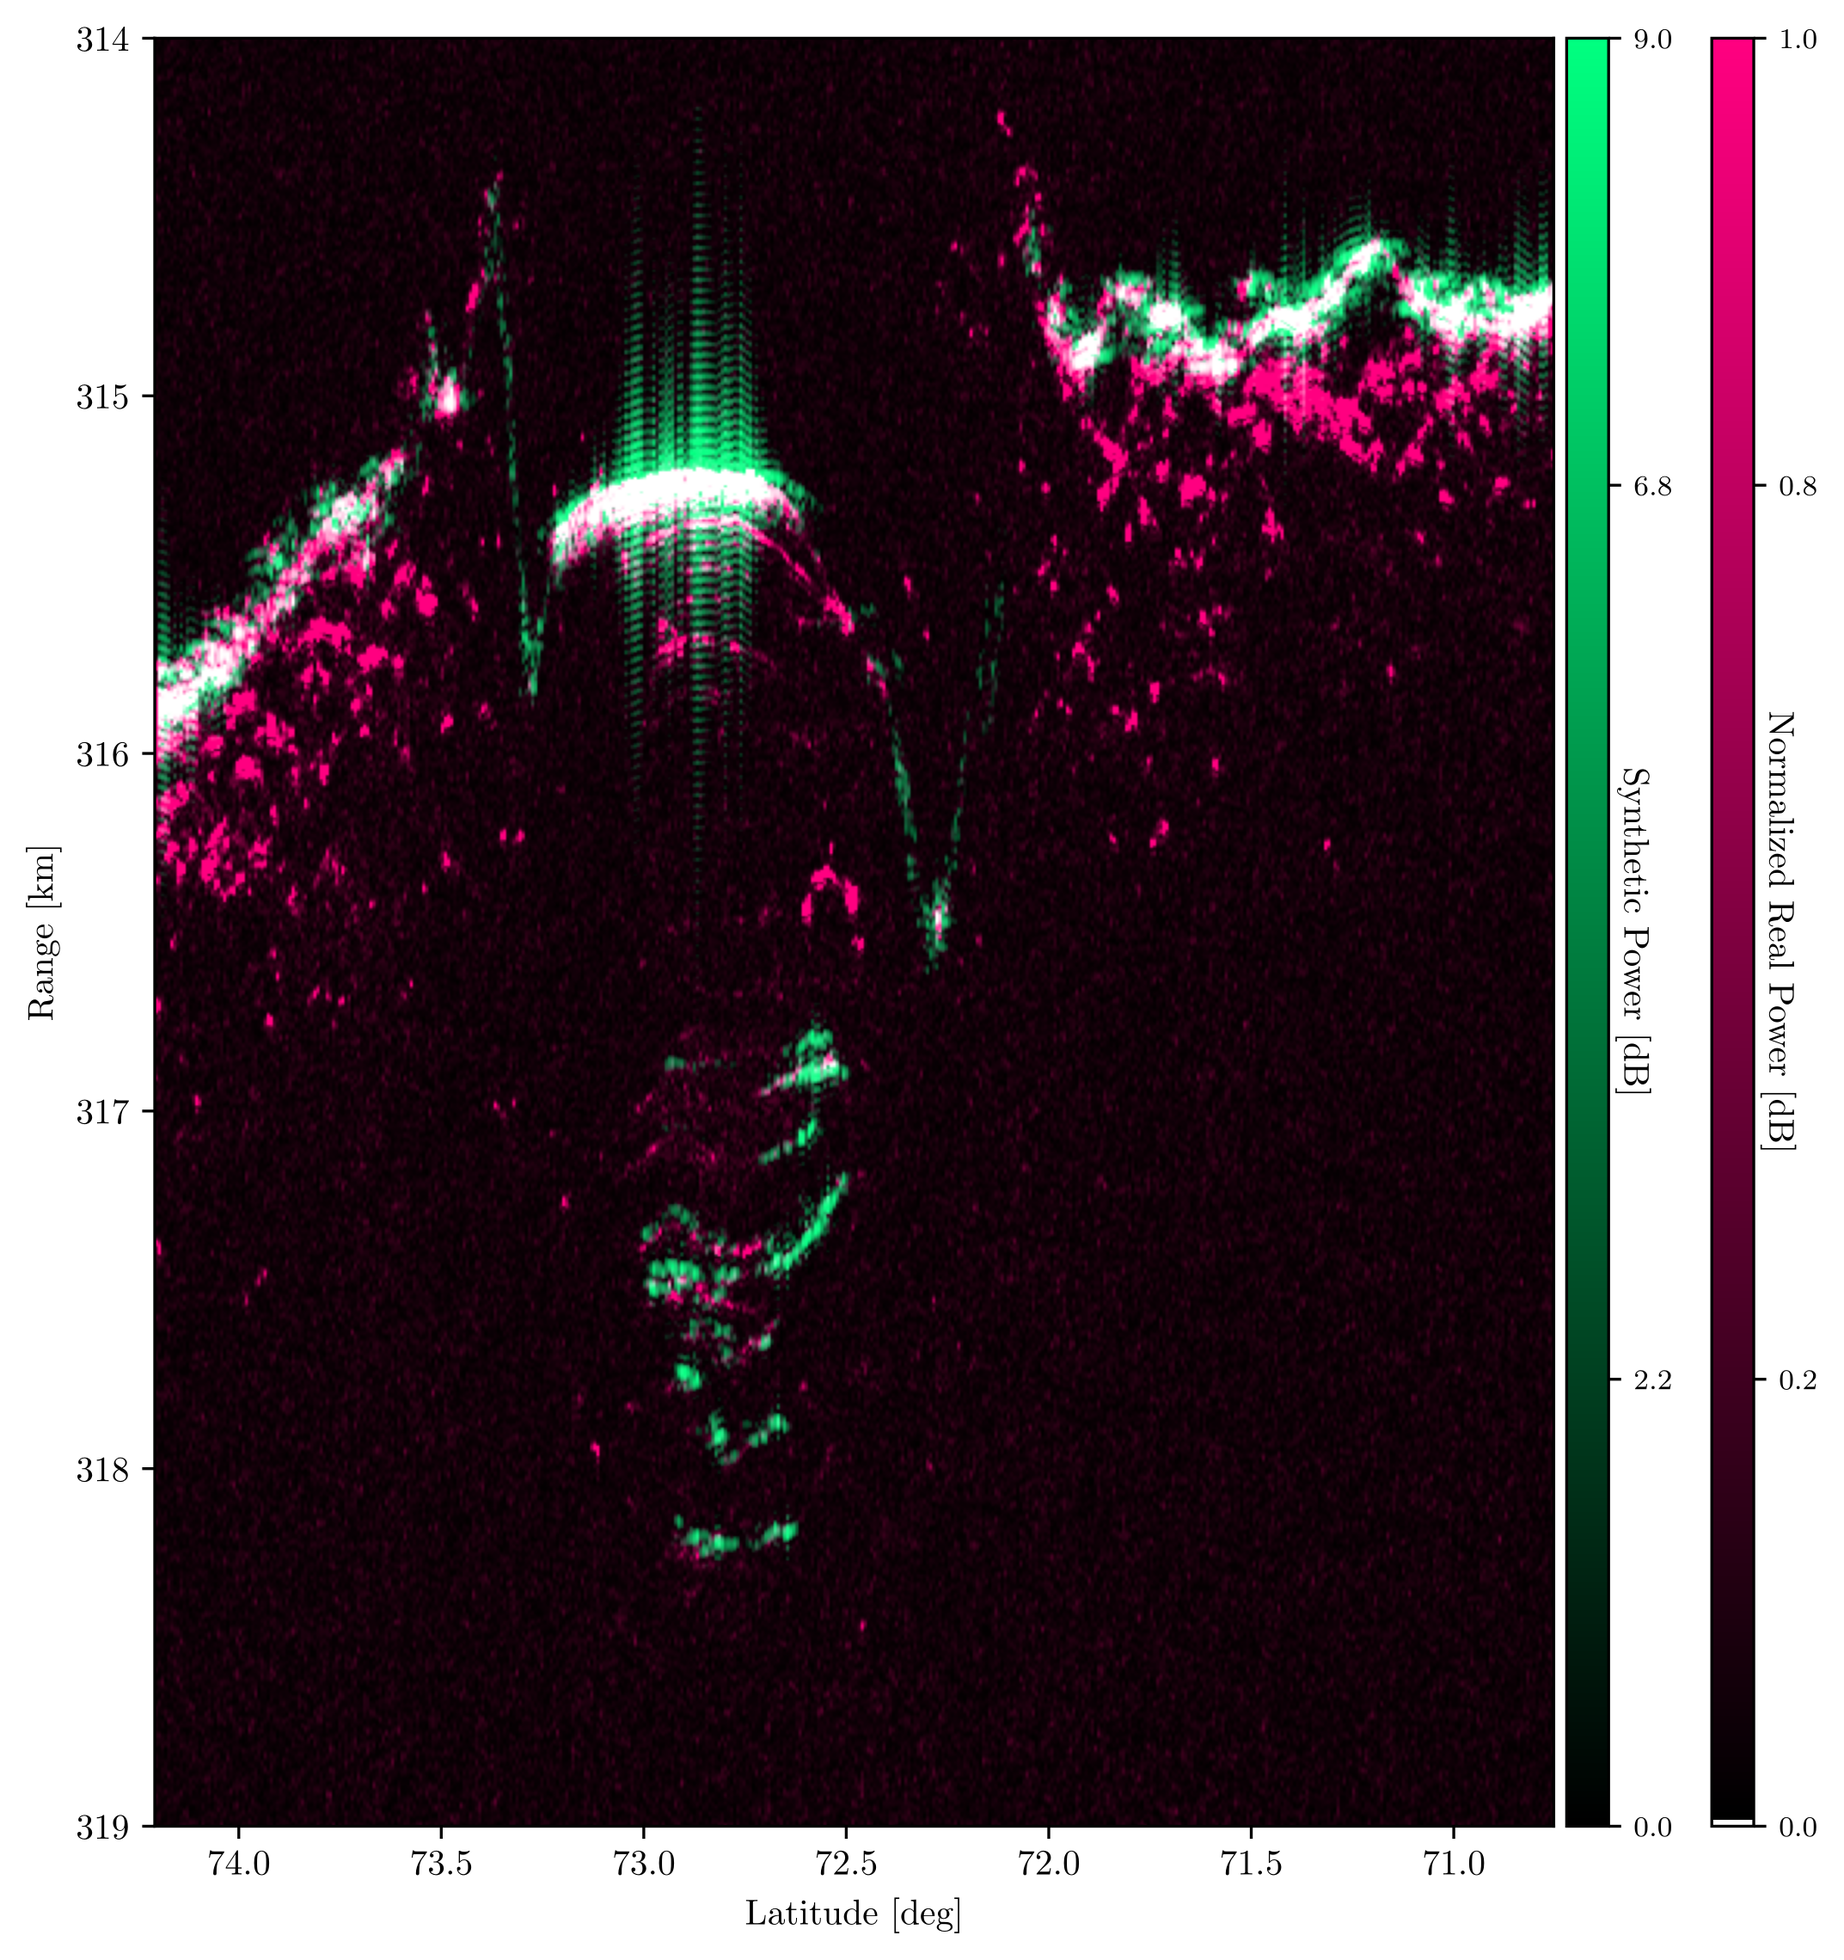
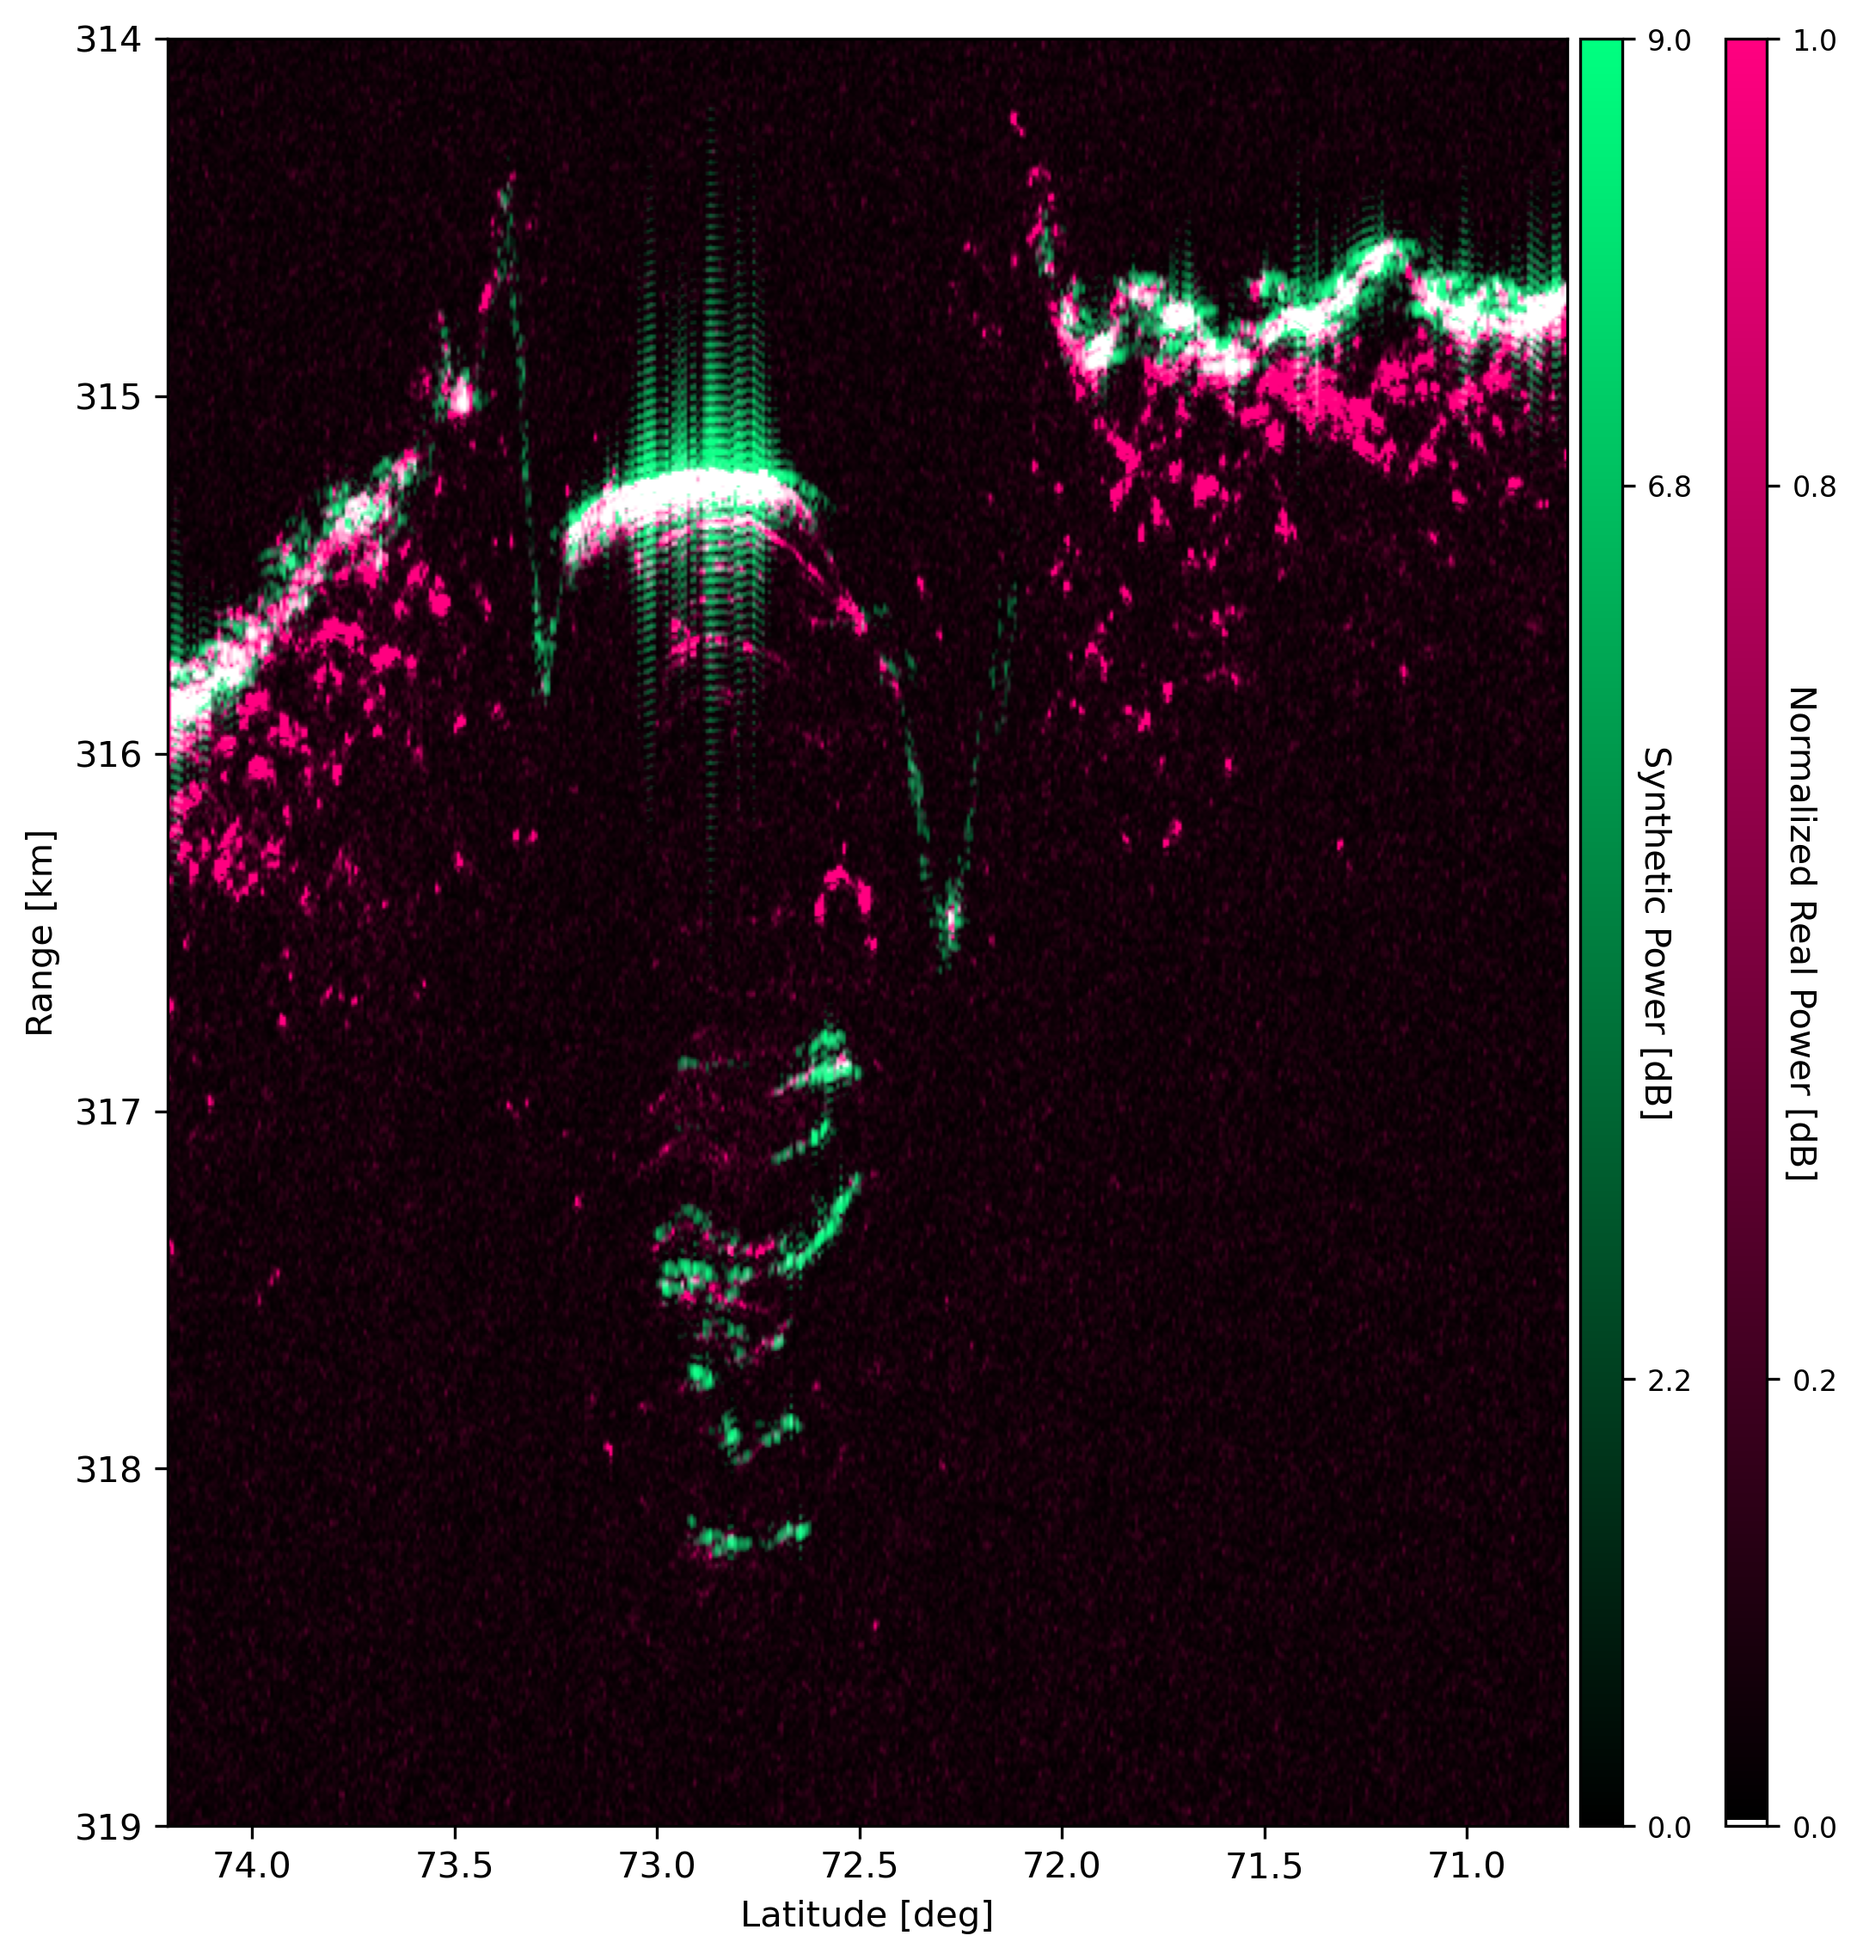
korolev focusing gain

diff --git a/src/PYTHON/rdr_plots.py b/src/PYTHON/rdr_plots.py
@@ -15,6 +15,7 @@ import output_handling as oh
 # matplotlib configuration for LaTeX
 os.environ["PATH"] += os.pathsep + '/usr/share/texlive/texmf-dist/tex/xelatex'
 
+
 matplotlib.use("pgf")
 matplotlib.rcParams.update({
     "pgf.texsystem": "pdflatex",
@@ -22,6 +23,7 @@ matplotlib.rcParams.update({
     'text.usetex': True,
     'pgf.rcfonts': False,
 })
+
 
 def simple_rdrgrm(rdrgrm, par, path, title=None, linspace=True, vmin=None, vmax=None):
 
@@ -412,7 +414,7 @@ def plot_SHARAD_comparison(real, synth, geometry, aeroid,
 
 def plot_unfoc_foc(rdrgrm, focused, rx_win, OBS, geometry=None,
                    rdrmin=22, rdrmax=35, focmin=35, focmax=45,
-                   aspect=250, ymin=314.15, ymax=318):
+                   aspect=250, ymin=314.15, ymax=318, show=False):
 
     Nr, Na = rdrgrm.shape
 
@@ -465,6 +467,10 @@ def plot_unfoc_foc(rdrgrm, focused, rx_win, OBS, geometry=None,
     # export
     plt.tight_layout(rect=(0.08, 0, 1, 1))
     plt.savefig("figures/output.png")
+
+    if show:
+        plt.show()
+
     plt.close()
 
 
@@ -617,7 +623,7 @@ def TGRS_rdrgrm_conv(params, directory, focused_files, unfocused_files, names):
 def TGRS_KOR1_SYN(rdrgrm, focused, rx_win, OBS, mola, aeroid, plotpar, geometry=None,
                    trc_st=750, trc_en=1200, c=299.792458,
                    rdrmin=22, rdrmax=35, focmin=35, focmax=45,
-                   aspect="auto", ymin=314.15, ymax=318):
+                   aspect="auto", ymin=314.15, ymax=318, show=False):
 
     Nr, Na = rdrgrm.shape
 
@@ -672,4 +678,8 @@ def TGRS_KOR1_SYN(rdrgrm, focused, rx_win, OBS, mola, aeroid, plotpar, geometry=
     # export
     plt.savefig("figures/TGRS-KOR1-SYN.png")
     plt.savefig("figures/TGRS-KOR1-SYN.pgf")
+
+    if show:
+        plt.show()
+
     plt.close()

diff --git a/examples/KOROLEV/code/plots.py b/examples/KOROLEV/code/plots.py
@@ -8,7 +8,6 @@ sys.path.append("../../src/PYTHON")
 import rdr_plots       as rp
 import unit_convs      as uc
 import output_handling as oh
-import rdr_plots       as rp
 import kutil           as ku
 
 # Load Co-SHARPS downsampled orbit:
@@ -91,4 +90,4 @@ geometry = ku.load_sharad_orbit_PKL(DIRECTORY, OBS)
 rp.TGRS_KOR1_SYN(rdr_db, foc_db, rx_win, OBS, mola, aeroid, plotpar, geometry=geometry,
                     rdrmin=-15, rdrmax=5, trc_st=trc_st, trc_en=trc_en,
                     focmin=plotpar['syn_min'], focmax=plotpar['syn_max'],
-                    ymax=319)
+                    ymax=319, show=True)

diff --git a/examples/KOROLEV/code/output.py b/examples/KOROLEV/code/output.py
@@ -42,6 +42,7 @@ sat_x, sat_y, sat_z = uc.interpolate_sources(params['ns'], sat_x, sat_y, sat_z)
 sat_x, sat_y, sat_z = uc.km_to_m(sat_x, sat_y, sat_z)
 
 params['spacing'] = uc.estimate_spacing(sat_x, sat_y, sat_z)
+print(f"Estimated spacing between sources is {params['spacing']} m")
 params['altitude'] = 1e3 * np.mean(geometry['SRAD']-geometry['MRAD'])
 
 focused = sf.focus_rdrgrm(rdrgrm, params, st=150, en=750)
